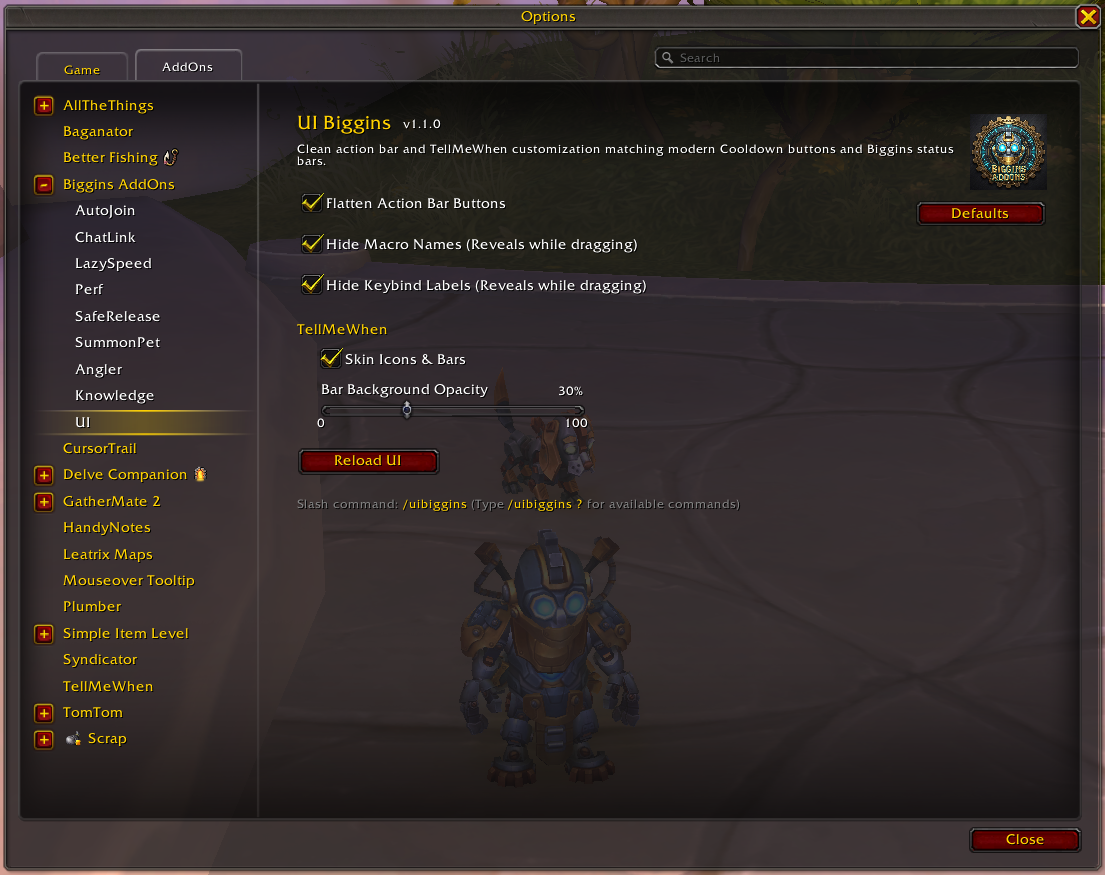
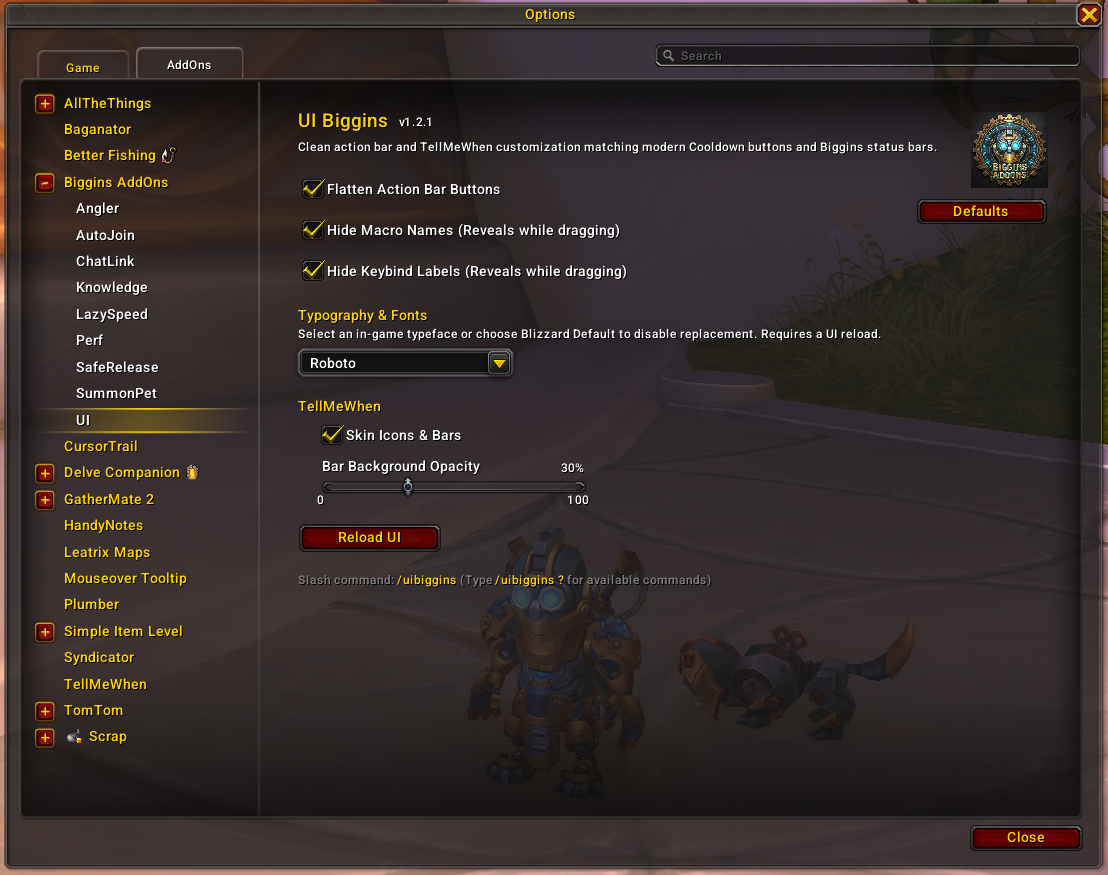
updated documentation

diff --git a/README.md b/README.md
@@ -37,19 +37,18 @@ An ultra-lightweight chat utility designed to make web URLs in chat clickable fo
 * **Pipe Escape Protection:** Safely respects WoW `|` escape sequences, protecting adjacent item links, spell links, and player names.
 * **Modern Canvas Settings UI:** Integrated under `Options -> AddOns -> Biggins AddOns -> ChatLink` with top-right `[ Defaults ]` button and master toggle.
 
-### 4. [Knowledge Biggins (v1.1.0)](./knowledge-biggins)
+### 4. [Knowledge Biggins (v1.4.0)](./knowledge-biggins)
 An ultra-lightweight popup button to study and consume profession knowledge items (shards, treatises, skill books) directly from your bags without menu diving.
 * **Universal Tooltip Detection:** Uses `C_TooltipInfo` to automatically detect any consumable item granting profession knowledge or skill across all professions and expansions with zero hardcoded databases.
-* **Drag & Drop Allow List:** Drop any click-to-use item directly onto the button to immediately allow it for consumption.
-* **Alt + Right-Click Block List:** Quickly block unwanted items from showing or reserve items for later with an instant click shortcut.
+* **Alt + Right-Click Block List:** Quickly block unwanted items from showing or reserve items for later with an instant click shortcut or settings drag-and-drop.
 * **Full Reagent Bag Compatibility:** Automatically scans all bags including Bag 5 (Reagent Bag), providing full support for unified inventory addons (Baganator, Bagnon).
 * **Native Blizzard Keybindings:** Assign dedicated keyboard shortcuts in `Options -> Keybindings -> Knowledge Biggins`.
-* **Visual Settings Trays:** Manage active allow and block lists in the Settings panel with mouseover tooltips and right-click removal.
+* **Visual Settings Tray:** Manage blocked items in the Settings panel with mouseover tooltips, right-click unblocking, and drag-and-drop support.
 * **One-Click Secure Action Button:** Styled to match Blizzard's native action bars with stack counts and instant one-click consumption.
 * **Shift + Drag Positioning & Lock Protection:** Drag freely with `Shift + Left-Click Drag` when unlocked. The button can be locked to prevent accidental movement and optionally set to always show even with empty bags.
 * **Native Blizzard UI Scaling:** Fully parented to `UIParent` to automatically inherit and scale with Blizzard's Graphics -> UI Scale slider.
 * **Zero Combat Taint:** Strictly respects Blizzard combat lockdown (`InCombatLockdown`), queueing updates until combat drops.
-* **Modern Canvas Settings UI:** Integrated under `Options -> AddOns -> Biggins AddOns -> Knowledge` with top-right `[ Defaults ]` button, position reset, allow/block list trays, and granular lock/visibility toggles.
+* **Modern Canvas Settings UI:** Integrated under `Options -> AddOns -> Biggins AddOns -> Knowledge` with top-right `[ Defaults ]` button, position reset, block list tray, and granular lock/visibility toggles.
 
 ### 5. [LazySpeed Biggins (v4.0.0)](./lazyspeed-biggins)
 A high-performance flight, swim, and movement speedometer featuring a sleek nameplate-style HUD, dynamic color gradients, and zero Lua garbage generation.
@@ -85,11 +84,21 @@ An ultra-lightweight, event-driven companion pet summoner designed to keep your 
 * **Multi-Tier Instance Auto-Dismiss:** Granular hierarchy for Raids, Mythic+ Dungeons, Regular Dungeons, and Delves & Labyrinths.
 * **Modern Canvas Settings UI:** Multi-tier nested hierarchy with top-level master toggle and top-right `[ Defaults ]` button.
 
+### 9. [UI Biggins (v1.2.1)](./ui-biggins)
+A sleek, lightweight action bar and interface visual enhancer featuring flat squircle geometry, soft drop shadows, TellMeWhen skinning, macro/keybind text hiding, and global modern font replacement.
+* **Flatten Action Bar Buttons:** Strips bulky metallic bezels, background slot art, and decorative bevels across standard action bars, pet bar, stance bar, possess bar, extra action buttons, spell flyouts, and Knowledge Biggins.
+* **45-Degree Chamfer Squircles & Soft Shadows:** Preserves native icon sizing and aspect ratio with modern 45-degree chamfered squircle corners and subtle drop shadows on the `BACKGROUND` layer.
+* **Skin TellMeWhen (Icons & Bars):** Applies squircle masks and soft drop shadows to TellMeWhen icon groups, and wraps status bars in the signature Biggins Suite gold tooltip border with adjustable background opacity.
+* **Smart Macro & Keybind Text Hiding:** Keeps action buttons clean during normal gameplay while automatically revealing macro labels and keybinding text during drag-and-drop / ability pickup.
+* **Global Modern Font Replacement:** Swaps legacy game fonts with clean, readable modern typography across the interface.
+* **100% Non-Invasive Architecture:** Never touches Edit Mode, unit frames, nameplates, chat, CVars, or combat dispel color coding.
+* **Modern Canvas Settings UI:** Integrated under `Options -> AddOns -> Biggins AddOns -> UI` with live opacity slider, defaults reset, and reload prompt.
+
 ---
 
 ## Unified In-Game Settings (`Biggins AddOns`)
 
-All eight addons automatically register under a unified parent category in the native Blizzard settings menu (`Escape -> Options -> AddOns`):
+All nine addons automatically register under a unified parent category in the native Blizzard settings menu (`Escape -> Options -> AddOns`):
 
 ```text
 [-] Biggins AddOns
@@ -101,6 +110,7 @@ All eight addons automatically register under a unified parent category in the n
     Perf
     SafeRelease
     SummonPet
+    UI
 ```
 
 * **Parent Landing Page:** Clicking `Biggins AddOns` presents the suite overview, character portrait, and quick-jump navigation buttons to each installed addon.

diff --git a/CURSEFORGE_PUBLISHING.md b/CURSEFORGE_PUBLISHING.md
@@ -26,16 +26,17 @@ This repository uses a native **GitHub Actions CI/CD Pipeline** that automatical
 
 Each addon folder in this monorepo maps to a specific numeric **Project ID** on CurseForge, configured in [`scripts/addons-config.json`](file:///C:/Code/wow-addons/scripts/addons-config.json):
 
-| Addon Directory       | Public Display Name | CurseForge Project ID | Primary Category          |
-| :-------------------- | :------------------ | :-------------------- | :------------------------ |
-| `angler-biggins`      | Angler Biggins      | `1790339`             | Professions / Fishing     |
-| `autojoin-biggins`    | AutoJoin Biggins    | `1760364`             | Chat & Communication      |
-| `chatlink-biggins`    | ChatLink Biggins    | `1763882`             | Chat & Communication      |
-| `knowledge-biggins`   | Knowledge Biggins   | `TBD`                 | Professions / Utility     |
-| `lazyspeed-biggins`   | LazySpeed Biggins   | `1678350`             | Action Bars / Movement    |
-| `perf-biggins`        | Perf Biggins        | `1760380`             | Unit Frames / Performance |
-| `saferelease-biggins` | SafeRelease Biggins | `1763542`             | Buffs & Debuffs / Utility |
-| `summonpet-biggins`   | SummonPet Biggins   | `1747339`             | Pet Battles / Companions  |
+| Addon Directory       | Public Display Name | CurseForge Project ID | Primary Category                           |
+| :-------------------- | :------------------ | :-------------------- | :----------------------------------------- |
+| `angler-biggins`      | Angler Biggins      | `1790339`             | Professions / Fishing                      |
+| `autojoin-biggins`    | AutoJoin Biggins    | `1760364`             | Chat & Communication                       |
+| `chatlink-biggins`    | ChatLink Biggins    | `1763882`             | Chat & Communication                       |
+| `knowledge-biggins`   | Knowledge Biggins   | `1810767`             | Professions / Utility                      |
+| `lazyspeed-biggins`   | LazySpeed Biggins   | `1678350`             | Action Bars / Movement                     |
+| `perf-biggins`        | Perf Biggins        | `1760380`             | Unit Frames / Performance                  |
+| `saferelease-biggins` | SafeRelease Biggins | `1763542`             | Buffs & Debuffs / Utility                  |
+| `summonpet-biggins`   | SummonPet Biggins   | `1747339`             | Pet Battles / Companions                   |
+| `ui-biggins`          | UI Biggins          | `1834817`             | User Interface / Action Bars & Unit Frames |
 
 ---
 
@@ -150,7 +151,7 @@ Commit your code changes, the bumped `.toc`, and `CHANGELOG.md`, then push to `m
 ### Step 4: GitHub Actions Deploys Automatically
 1. The **`detect-changes`** job checks which files were modified.
 2. If only `perf-biggins/` changed, only `perf-biggins` is queued.
-3. If [`lib-biggins-suite/`](file:///C:/Code/wow-addons/lib-biggins-suite) changed, the pipeline automatically packages and publishes **all 6 addons** in parallel.
+3. If [`lib-biggins-suite/`](file:///C:/Code/wow-addons/lib-biggins-suite) changed, the pipeline automatically packages and publishes **all 9 addons** in parallel.
 4. The **`publish`** matrix job runs, executes `package.ps1` in an isolated VM, and streams the `.zip` directly to CurseForge via REST API.
 5. Upon a successful CurseForge upload, the pipeline automatically creates and pushes the matching Git release tag (e.g. `perf-biggins-1.4.0`) to your GitHub repository.
 
